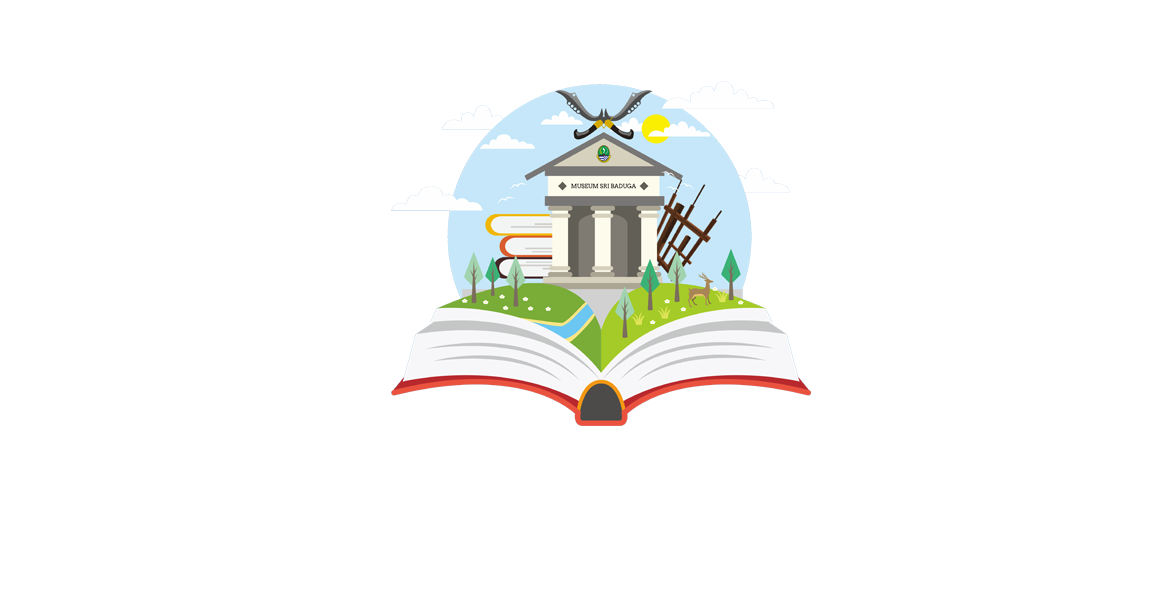
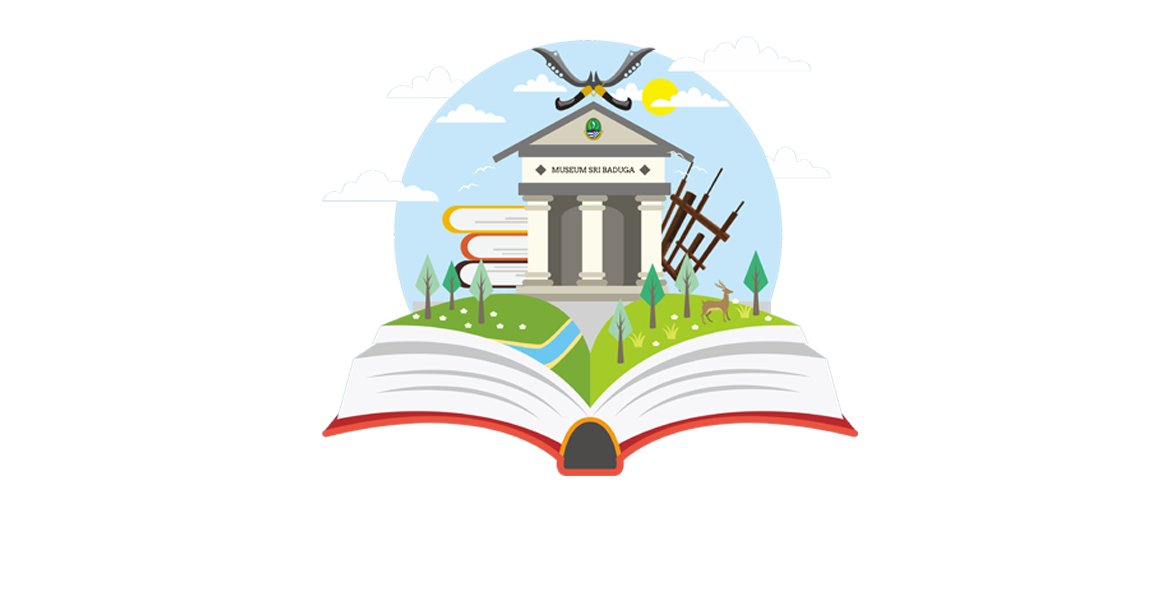
parallax

Changed region(s): [[0.2784, 0.06, 0.7423, 0.81]]

diff --git a/parallax.html b/parallax.html
@@ -5,27 +5,112 @@
     <meta charset="UTF-8">
     <meta name="viewport" content="width=device-width, initial-scale=1.0">
     <meta http-equiv="X-UA-Compatible" content="ie=edge">
+    <link rel="stylesheet" href="css/bootstrap.css">
+    <link rel="stylesheet" href="css/bootstrap-theme.css">
     <link rel="stylesheet" href="css/parallax.css">
+    <link href="https://fonts.googleapis.com/css?family=Contrail+One|Crimson+Text|Rozha+One" rel="stylesheet">
+    <link href="https://fonts.googleapis.com/css?family=Contrail+One|Crimson+Text|Lora|Rozha+One" rel="stylesheet">
     <title>Document</title>
 </head>
 
 <body>
     <header class="latar">
-        <div class="museum"></div>
-        <div class="kota"></div>
+        <nav class="navbar navbar-default navbar-inverse navbar-fixed-top my-navbar">
+            <div class="container-fluid">
+                <!-- Brand and toggle get grouped for better mobile display -->
+                <div class="navbar-header">
+                    <button type="button" class="navbar-toggle collapsed" data-toggle="collapse" data-target="#bs-example-navbar-collapse-1"
+                        aria-expanded="false">
+                        <span class="sr-only">Toggle navigation</span>
+                        <span class="icon-bar"></span>
+                        <span class="icon-bar"></span>
+                        <span class="icon-bar"></span>
+                    </button>
+                    <a class="navbar-brand" href="#">
+                        <img src="img/logo.png" alt="">
+                    </a>
+                </div>
+
+                <!-- Collect the nav links, forms, and other content for toggling -->
+                <div class="collapse navbar-collapse" id="bs-example-navbar-collapse-1">
+                    <ul class="nav navbar-nav navbar-center">
+                        <li>
+                            <a href="#">Beranda</a>
+                        </li>
+                        <li>
+                            <a href="#">Sejarah</a>
+                        </li>
+                        <li>
+                            <a href="#">Lokasi</a>
+                        </li>
+                        <li class="dropdown">
+                            <a href="#" class="dropdown-toggle" data-toggle="dropdown" role="button" aria-haspopup="true" aria-expanded="false">Galeri
+                                <span class="caret"></span>
+                            </a>
+                            <ul class="dropdown-menu">
+                                <li>
+                                    <a href="#">Tampak Luar</a>
+                                </li>
+                                <li>
+                                    <a href="#">Lantai 1</a>
+                                </li>
+                                <li>
+                                    <a href="#">Lantai 2</a>
+                                </li>
+                            </ul>
+                            <li>
+                                <a href="#">Informasi</a>
+                            </li>
+                        </li>
+                    </ul>
+                    <ul class="nav navbar-nav navbar-right">
+                        <li>
+                            <img src="img/jabar.png" alt=""> </li>
+                </div>
+                <!-- /.navbar-collapse -->
+            </div>
+            <!-- /.container-fluid -->
+        </nav>
+
     </header>
+    <br>
+    <br>
+    <br>
+    <br>
+    <br>
     <section class="content">
         <article>
             <h1>MUSEUM SRI BADUGA BANDUNG</h1>
             <hr>
-            <p>Lorem ipsum dolor sit amet consectetur adipisicing elit. Eaque sapiente esse exercitationem. Aliquid minus rem dolor placeat id enim officia quo quaerat, dolore, voluptatum maxime quidem provident asperiores eos corporis.</p>
-            <p>Illo ad sed id sunt veritatis fugit saepe autem esse ea placeat fuga similique culpa eligendi minima consequatur exercitationem, enim aut velit laboriosam in nostrum! Iste molestias maxime quas odit?</p>
-            <p>Sapiente, dicta? Molestiae fugiat molestias ad ipsam? Distinctio, dolor reprehenderit saepe cupiditate quam explicabo praesentium iste earum unde odit aliquid magni at ipsa quia exercitationem. Earum animi eius debitis dicta.</p>
+            <p>Selamat datang di website resmi Balai Pengelolaan Museum Negeri Sri Baduga. Web Site ini memberikan informasi
+                kepada Masyarakat untuk mengenal lebih dekat Museum Sri Baduga. Informasi yang diberikan beragam, dari mulai
+                koleksi benda sejarah, kebudayaan, dan Objek Pariwisata Indonesia khusunya Jawa Barat. Masyarakat dapat mengenal
+                lebih dekat sebelum berkunjung ke museum dengan berbagai konten web yang disajikan diantaranya informasi
+                kunjungan dan cara memesan tiket online.</p>
         </article>
+        <br>
+        <br>
+        <br>
+        <br>
+        <br>
+        <header class="back">
+            <article>
+                    <br>
+                    <br>
+                    <br>
+                  <h1>SEJARAH</h1>
+                  <hr>             
+                <p>Museum Negeri Sri Baduga yang terletak di ruas Jalan B.K.R. 185 Tegallega dan berhadapan dengan Monumen Bandung Lautan Api, dirintis sejak tahun 1974 dengan memanfaatkan lahan dan bangunan bekas kewedanaan Tegallega. Bangunan Museum berbentuk bangunan suhunan panjang dan rumah panggung khas Jawa Barat yang dipadukan dengan gaya arsitektur modern. Tahap pertama pembangunan diselesaikan pada tahun 1980, diresmikan pada tanggal 5 Juni oleh Menteri Pendidikan dan Kebudayaan, Dr. Daud Yusuf dan diberi nama Museum Negeri Propinsi Jawa Barat.</p>
+                <p>Sepuluh tahun kemudian, nama museum dilengkapi dengan nama Sri Baduga diambil dari nama raja Sunda yang bertahta di Pakwan Pajajaran sekitar abad ke-16 Masehi. Nama ini tertuang dalam prasasti Batutulis (Bogor) secara lengkap tertulis SRI BADUGA MAHARAJA RATU HAJI I PAKWAN PAJAJARAN SRI RATU DEWATA. Sebagai Museum umum yang memiliki koleksi dari jenis koleksi Geologika, Biologika, Etnografika, Arkeologika, Historika, Numismatika/Heraldika, Filologika, Keramik, Seni Rupa dan Teknologi ini, tercatat tidak kurang sebanyak 5.367 buah koleksi; terbanyak adalah koleksi rumpun Etnografika yang berhubungan dengan benda-benda budaya daerah. Jumlah koleksi tersebut tidak terbatas pada bentuk realia (asli), tapi dilengkapi dengan koleksi replika, miniatur, foto, dan maket.</p>
+            </article>
+        </header>
+
         <div style="height: 2000px"></div>
     </section>
 
-    <script src="https://ajax.googleapis.com/ajax/libs/jquery/1.12.4/jquery.min.js"></script>
+    <div class="footer">Copyright 2017 MRFdoc.</div>
+
+    <script src="js/jquery-3.2.1.min.js"></script>
     <script src="js/function.js"></script>
     <script src="js/bootstrap.js"></script>
 </body>

diff --git a/css/parallax.css b/css/parallax.css
@@ -1,11 +1,11 @@
 
 body {
-    font-family: "Open Sans", sans-serif;
+    font-family: 'Rozha One', serif;
 }
 
 h1 {
-    color: #cccccc;
-    font-weight: 300;
+    color: #6d6d6d;
+    font-weight: 300px;
 }
 
 figure {
@@ -14,9 +14,14 @@ figure {
 
 .content article {
     padding: 100 0px;
-    max-width: 640px;
+    max-width: 768px;
     margin: 0 auto;
     text-align: center;
+}
+
+.content p {
+    font-size: 18px;
+    font-family: 'Lora', serif;
 }
 
 img {
@@ -24,37 +29,68 @@ img {
 }
 
 
-
-
 /* Parallax */
 .latar {
     position: relative;
     background-repeat: no-repeat;
     height: 600px;
-    background-image: url(../img/fix.png);
+    width: 100%;
+    background-image: url(../img/background.jpg);
     background-size: auto 600px;
     background-position: top center;
     background-attachment: fixed;
     overflow: hidden;
 }
 
-.museum {
+.my-navbar {
+    border: 0;
+    border-radius: 10px;
+    background: rgba(0, 0, 0, 0.75);
     width: 100%;
-    height: 600px;
-    background-image: url(../img/museumjadi.png);
-    background-position: center;
-    background-size: auto 600px;
-    background-repeat: no-repeat;
-    position: absolute;
+    position: fixed;
+    box-shadow: 10px;
 }
 
-.kota {
-    width: 100%;
-    height: 600px;
-    background-image: url(../img/kota.png);
-    background-position: center bottom;
+.navbar-right img {
+    padding: 5px;
+    padding-right: 100px;
+}
+
+a {
+    font-size: 18px;
+}
+
+.navbar-brand {
+    padding: 10px;
+    padding-left: 100px;
+}
+
+.navbar-center {
+    padding-left: 180px;
+}
+
+/* Paralax */
+
+.back {
+    position: relative;
     background-repeat: no-repeat;
+    height: 600px;
+    width: 100%;
+    background-image: url(../img/back.png);
     background-size: auto 600px;
-    position: absolute;
-    top: 600px;
+    background-position: top center;
+}
+
+.back h1 {
+    color: whitesmoke;
+}
+.back p {
+    color: whitesmoke;
+}
+.footer {
+    background-color: #191818;
+    padding: 1px;
+    text-align: center;
+    color: whitesmoke;
+    font-size: 12px;
 }

diff --git a/js/function.js b/js/function.js
@@ -1,5 +1,8 @@
 $(window).scroll(function() {
-    var wScroll = $(this).scrollTop();
-
-    console.log(wScroll);
+   if ($(document).scrollTop() > 50) {
+       $('nav').addClass('header');
+   }
+   else {
+       $('nav').removeClass('header');
+   }
 });
